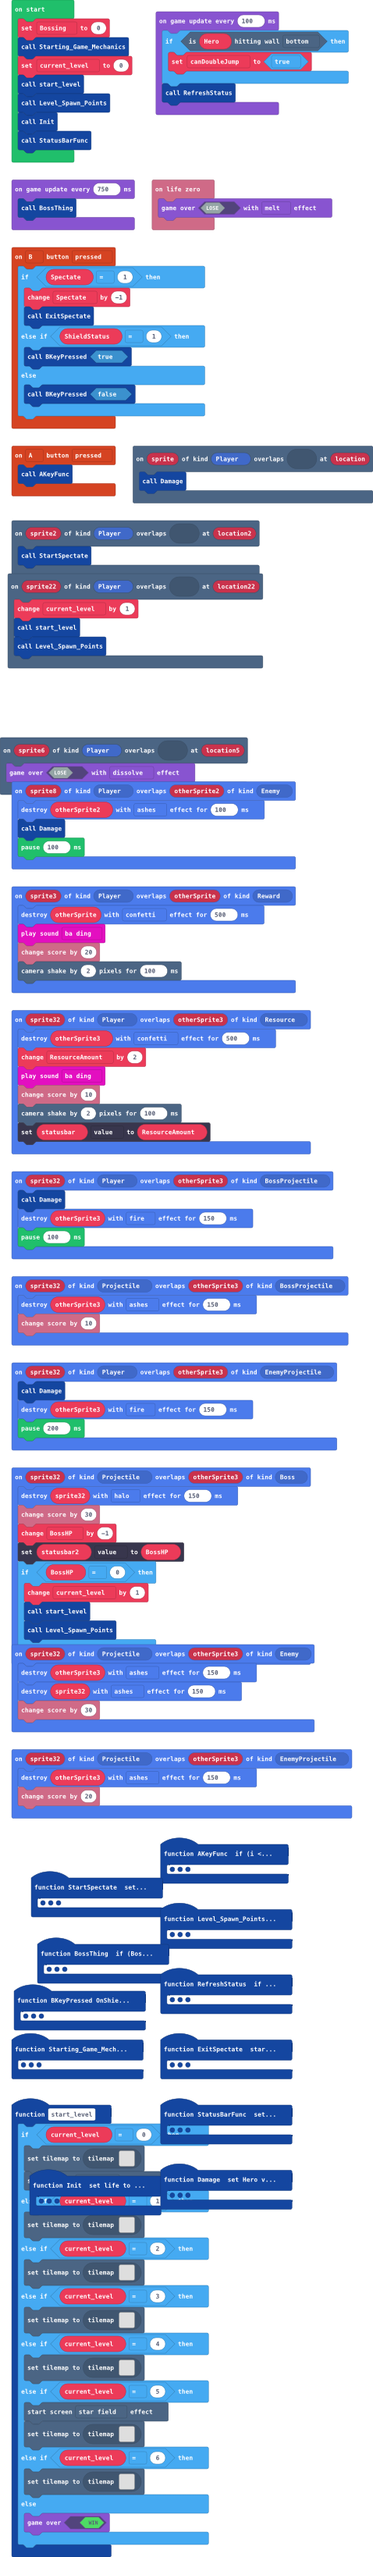
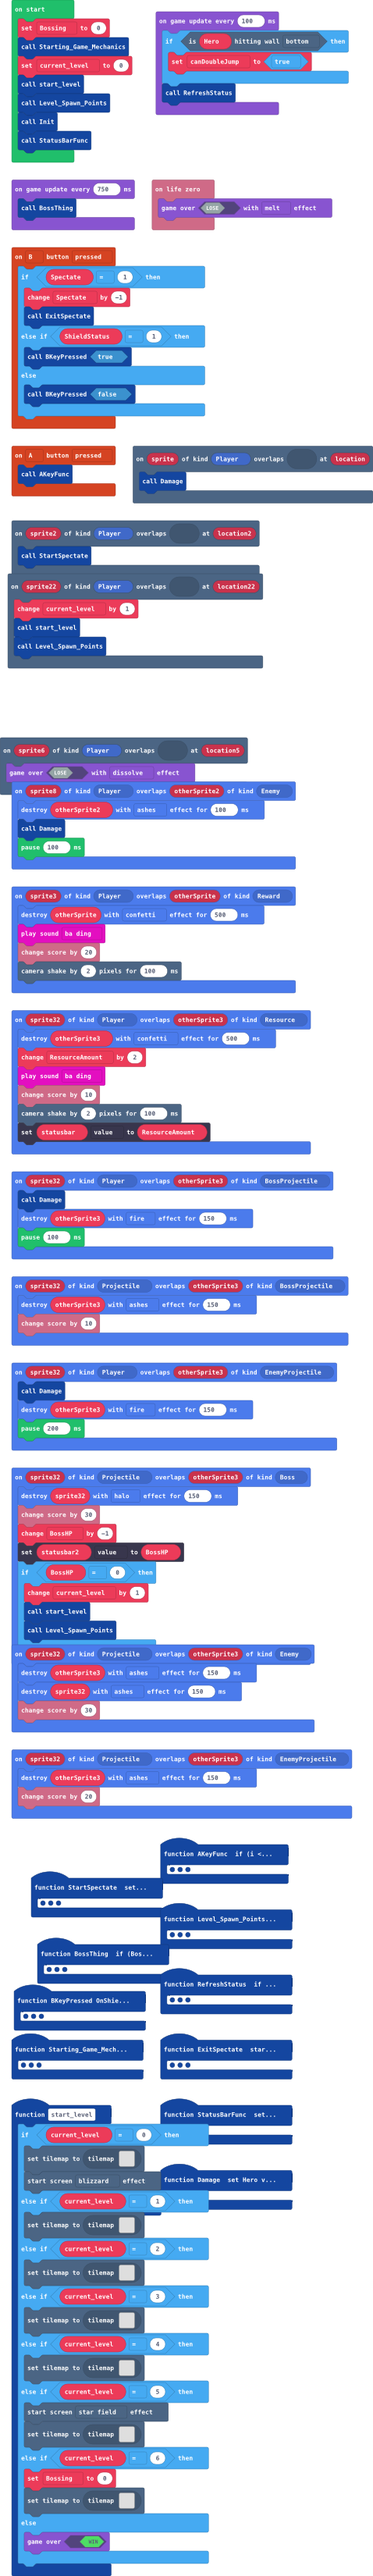
Update main.blocks, main.ts

diff --git a/main.ts b/main.ts
@@ -602,6 +602,7 @@ function start_level () {
         effects.starField.startScreenEffect()
         tiles.setCurrentTilemap(tilemap`level7`)
     } else if (current_level == 6) {
+        Bossing = 0
         tiles.setCurrentTilemap(tilemap`level9`)
     } else {
         game.gameOver(true)
